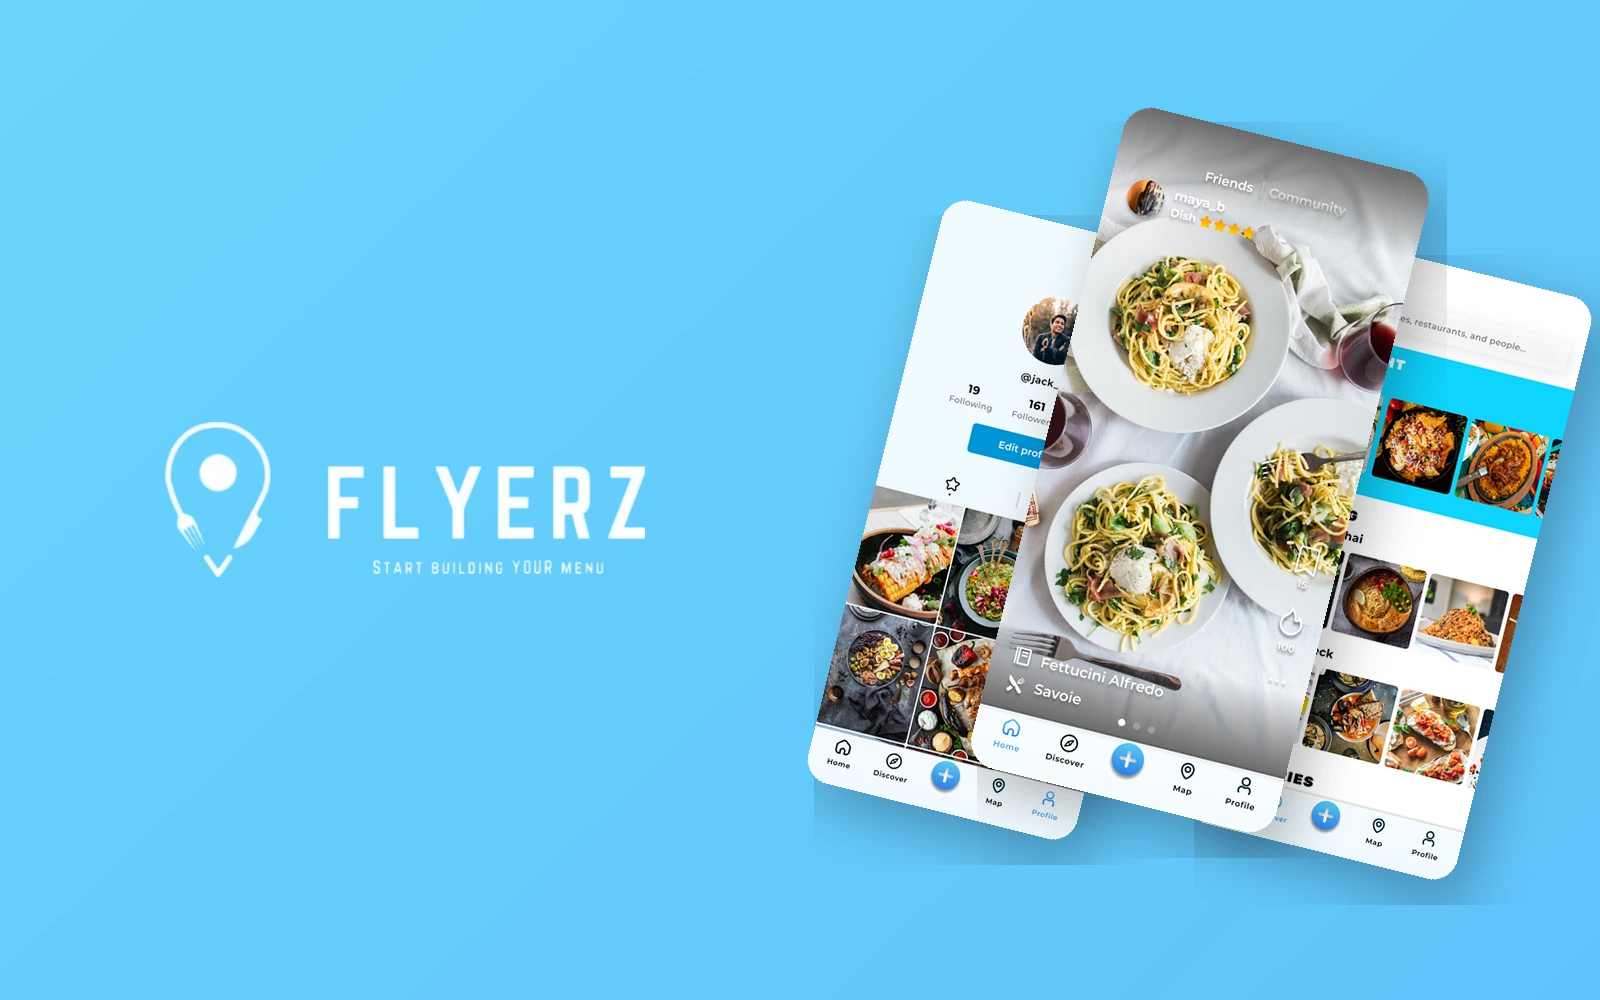
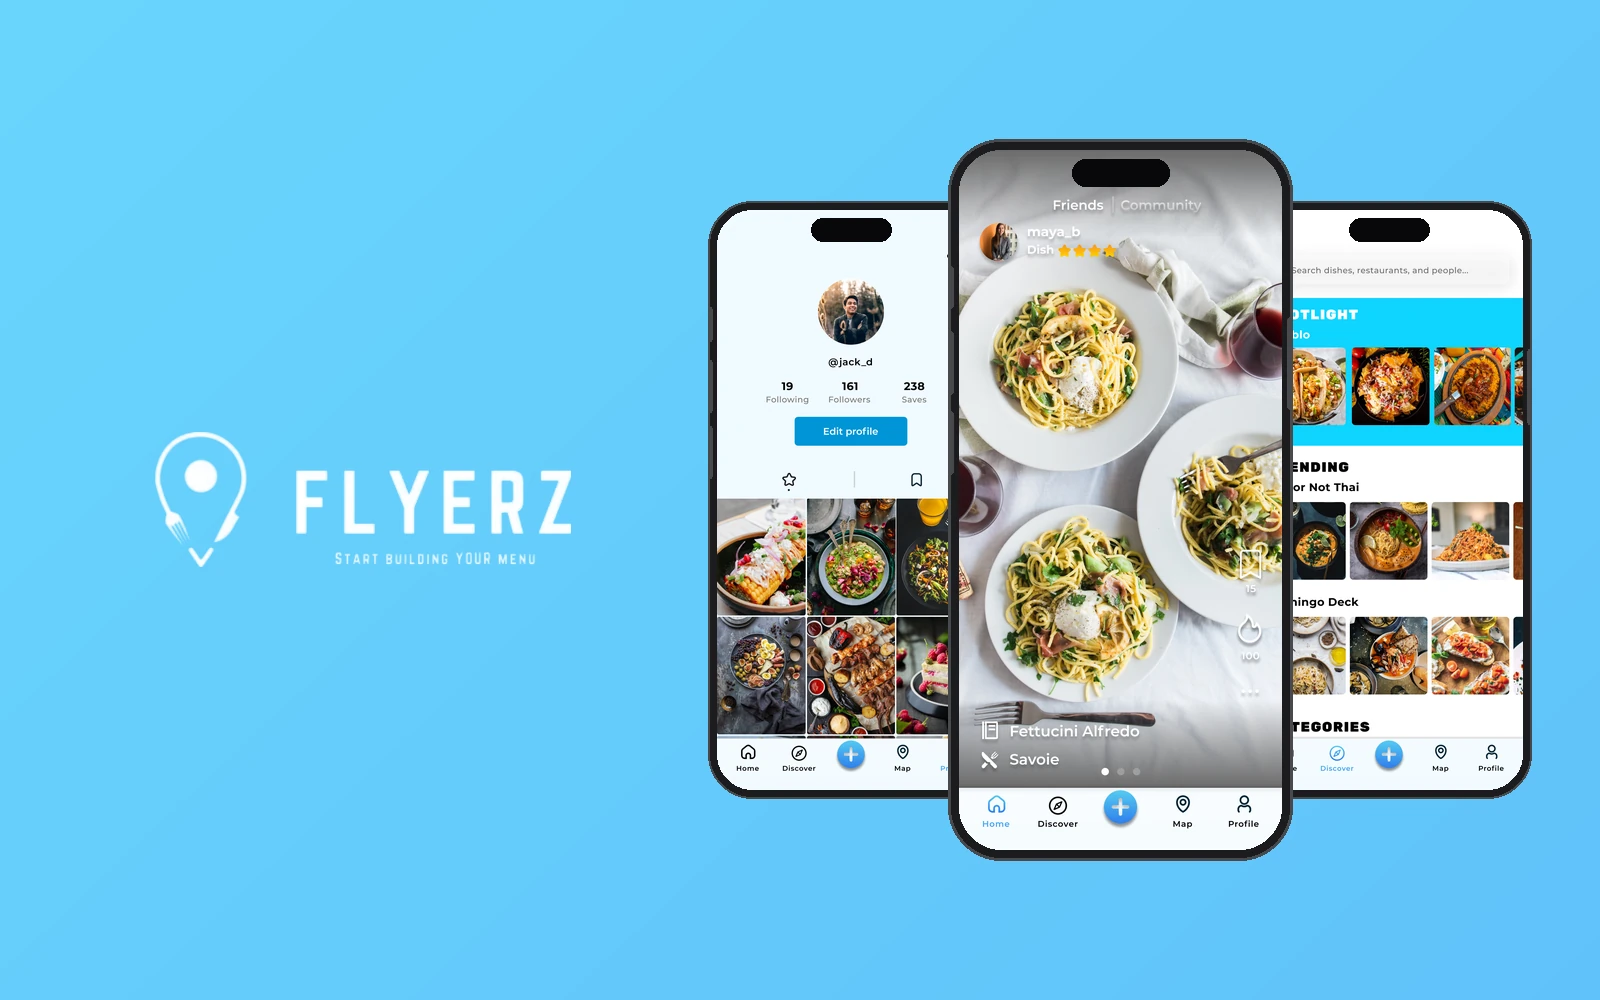
Flyerz: iPhone frames, no shadows
Screens now sit in drawn device frames - bezel, dynamic island, side buttons -
rather than floating as bare rounded rectangles. Drop shadows removed. Group
nudged left so the right phone clears the edge.

Frame renderer kept in tools/device_frame.py.

diff --git a/tools/device_frame.py b/tools/device_frame.py
@@ -1,0 +1,47 @@
+"""iPhone device frame renderer for the preview cards.
+
+The Supahealth captures already include a device frame; the Flyerz screens are
+bare 390x844 exports from Figma, so they get framed here. Used by the compositing
+scripts that build assets/previews/*.webp.
+"""
+from PIL import Image, ImageDraw
+
+def iphone(screen_img, screen_h, body=(28,28,30), rail=(72,74,78)):
+    """Wrap a bare app screenshot in an iPhone-style frame.
+    screen_h is the height of the *screen*; the returned image is larger."""
+    im = screen_img.convert("RGB")
+    sw = round(im.width * screen_h / im.height)
+    im = im.resize((sw, screen_h), Image.LANCZOS)
+
+    bez  = max(2, round(sw * 0.035))          # bezel thickness
+    edge = max(1, round(sw * 0.008))          # bright outer rail
+    bw, bh = sw + 2*bez, screen_h + 2*bez
+    r_out = round(bw * 0.155)
+    r_scr = max(2, r_out - bez)
+
+    dev = Image.new("RGBA", (bw, bh), (0,0,0,0))
+    d = ImageDraw.Draw(dev)
+    d.rounded_rectangle([0,0,bw-1,bh-1], radius=r_out, fill=rail)          # rail
+    d.rounded_rectangle([edge,edge,bw-1-edge,bh-1-edge],
+                        radius=r_out-edge, fill=body)                       # body
+
+    # screen, corner-masked
+    m = Image.new("L",(sw,screen_h),0)
+    ImageDraw.Draw(m).rounded_rectangle([0,0,sw-1,screen_h-1], radius=r_scr, fill=255)
+    scr = im.convert("RGBA"); scr.putalpha(m)
+    dev.alpha_composite(scr, (bez,bez))
+
+    # dynamic island
+    iw, ih = round(sw*0.30), round(sw*0.085)
+    ix, iy = bez + (sw-iw)//2, bez + round(sw*0.028)
+    ImageDraw.Draw(dev).rounded_rectangle([ix,iy,ix+iw,iy+ih], radius=ih//2, fill=(8,8,10))
+
+    # side buttons
+    bd = ImageDraw.Draw(dev)
+    btn_w = max(1, round(bez*0.42))
+    for y0,y1 in ((0.175,0.235),(0.265,0.355),(0.375,0.465)):             # left
+        bd.rounded_rectangle([-btn_w, round(bh*y0), btn_w, round(bh*y1)],
+                             radius=btn_w, fill=rail)
+    bd.rounded_rectangle([bw-1-btn_w, round(bh*0.245), bw-1+btn_w, round(bh*0.375)],
+                         radius=btn_w, fill=rail)
+    return dev
